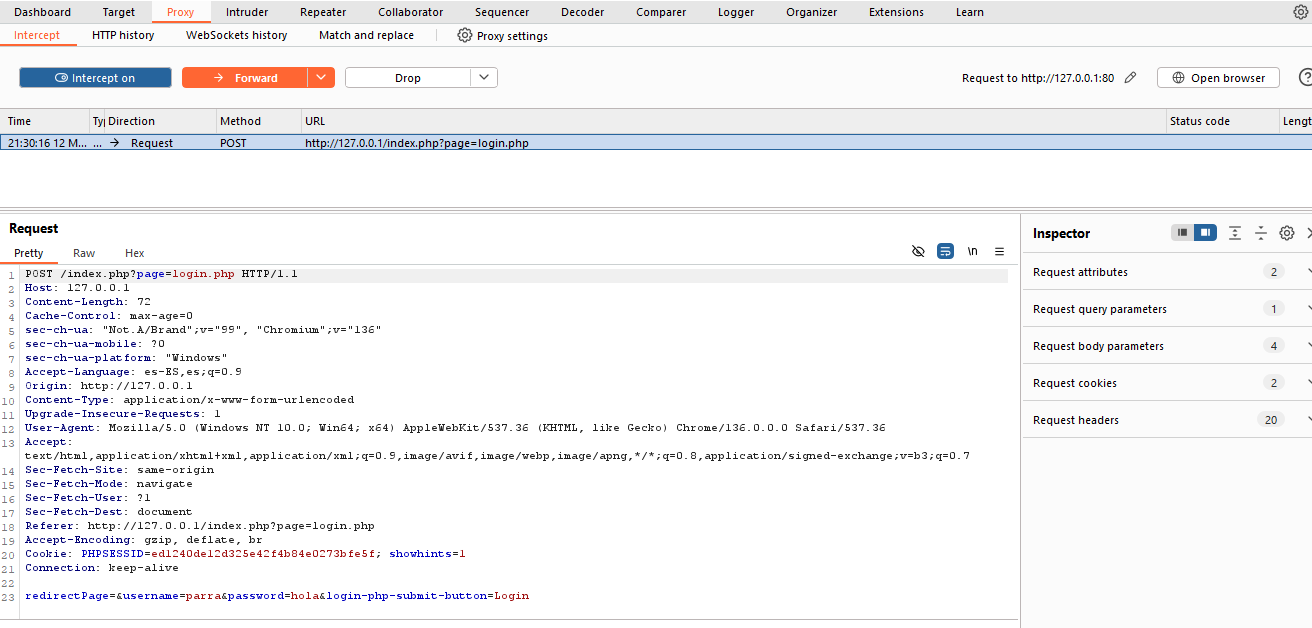
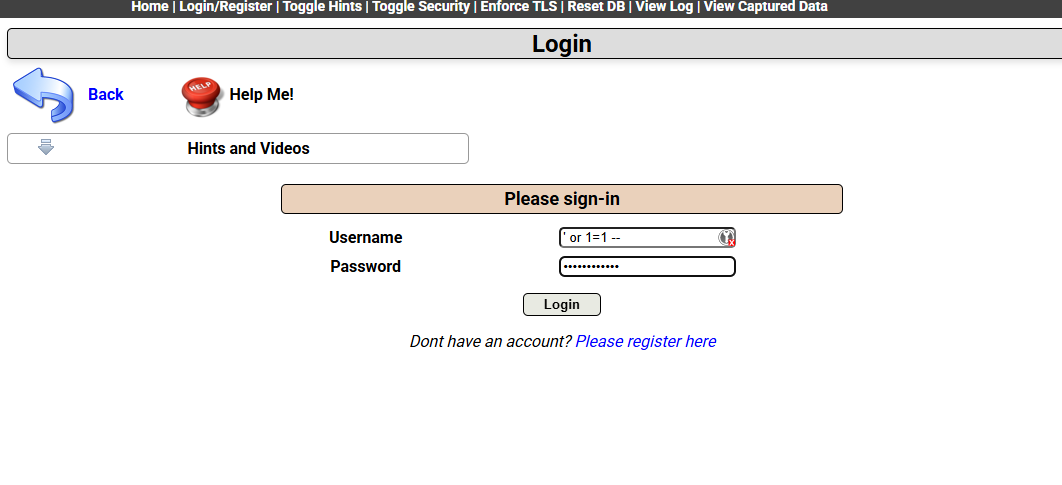
Add files via upload
SQL Injection

diff --git a/pruebas.js b/pruebas.js
@@ -1,0 +1,3 @@
+alert("¡Hola! Ahora te pediré un dato.");
+let dato = prompt("Por favor, ingresa algo:");
+alert("Ingresaste: " + dato);

diff --git a/burpsuit.md b/burpsuit.md
@@ -1,13 +1,32 @@
-1. Registro de Usuario
-Como paso inicial, se lleva a cabo el proceso de registro, mediante el cual el usuario genera sus credenciales de acceso (nombre de usuario y contraseña), que serán necesarias para autenticar su identidad en el sistema.
+Se realiza una injection en una base de datos SQL se ingreso con "' or 1=1 -- ", colocando eso y cualquier contraseña el sistema me permitio ingresar como usuario admin. 
 
 
-2. Inicio de Sesión y Captura de Datos
-Una vez registrado, el usuario procede a realizar el inicio de sesión en la plataforma. Durante esta etapa, se lleva a cabo la captura y almacenamiento de los datos correspondientes del cliente, conforme a los parámetros establecidos por el sistema.
+![alt text](image.png)
+![alt text](image-1.png)
+![alt text](image-2.png)
+![alt text](image-3.png)
 
 
-3. Modificación de Información del Cliente
-Posteriormente, el sistema permite ejecutar la modificación de los datos previamente registrados del cliente, a través de la interfaz habilitada para dicho fin, garantizando la trazabilidad y consistencia de la información almacenada.
+De igual manera se realizo reflected en la cual se hizo un boton que al dar click te redirije a youtube![alt text](image-4.png)
+![alt text](image-5.png)
 
-![![alt text](image-3.png)](image-2.png)
-![alt text](image-4.png)
+Posterior a ello se hizo un script para que al momento de ingresar en el blog me proporcione la ubicacion por medio de coordenadas
+![alt text](image-6.png)
+![alt text](image-7.png)
+
+Tambien use un script para ver cual es la IP publica: 
+![alt text](image-8.png)
+
+<script>
+fetch('https://api.ipify.org?format=json')
+  .then(response => response.json())
+  .then(data => {
+    console.log("IP pública obtenida:");
+    console.log(data.ip);
+  })
+  .catch(error => {
+    console.error("Error obteniendo IP pública:", error.message);
+  });
+</script>
+
+
